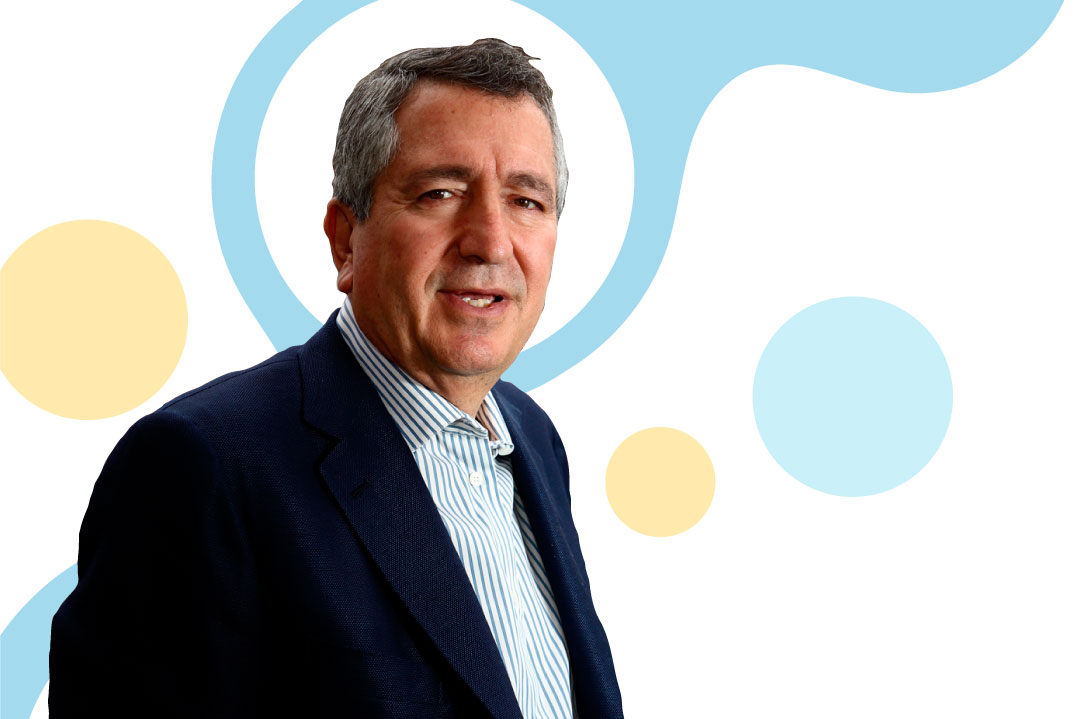
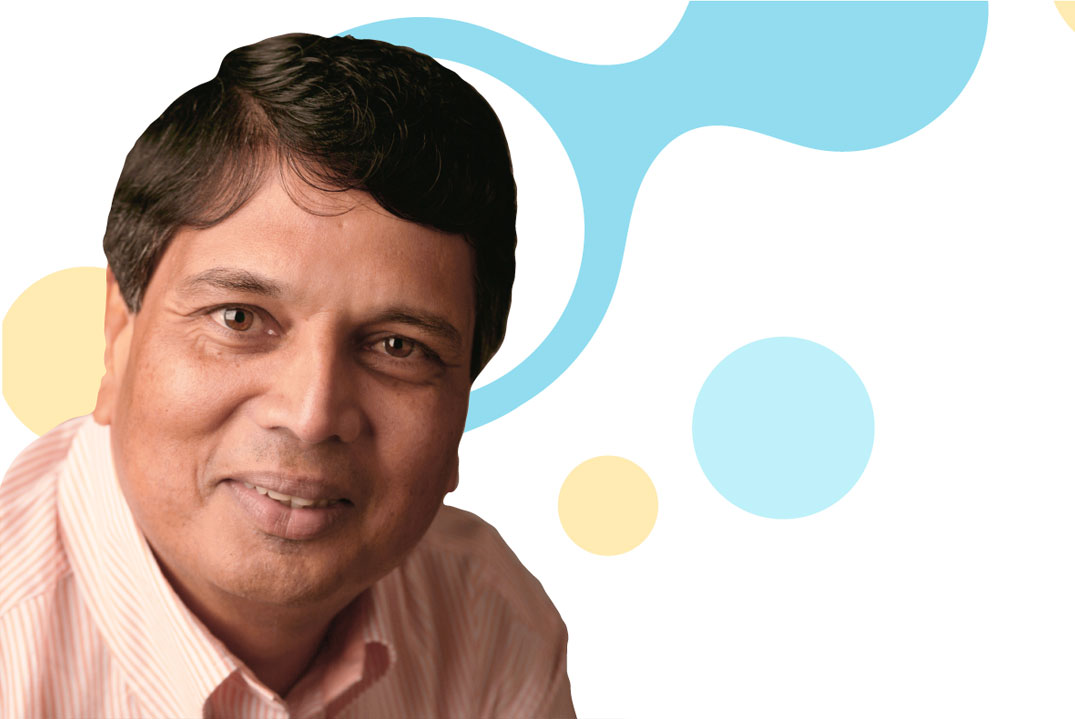
team
perfiles 1

diff --git a/index.html b/index.html
@@ -310,7 +310,7 @@
 									<div class="col-md-4 col-sm-4 wow animated fadeInUp" data-wow-duration="1s" data-wow-delay="0.5s">
 										<div class="overlay-effect effects clearfix">
 											<div class="img">
-											  <img src="assets/img/team/team1.jpg" alt="Portfolio Item">
+											  <img src="assets/img/team/team1.png" alt="Portfolio Item">
 											  <div class="overlay">
 												<button class="md-trigger expand" data-modal="modal-9"><i class="fa fa-search"></i><br>Ver Perfil</button>
 											  </div>
@@ -325,7 +325,7 @@
 									<div class="col-md-4 col-sm-4 wow animated fadeInUp" data-wow-duration="1s" data-wow-delay="0.7s">
 										<div class="overlay-effect effects clearfix">
 											<div class="img">
-												<img src="assets/img/team/team2.jpg" alt="Portfolio Item">
+												<img src="assets/img/team/team2.png" alt="Portfolio Item">
 												<div class="overlay">
 													<button class="md-trigger expand" data-modal="modal-9"><i class="fa fa-search"></i><br>Ver Perfil</button>
 												</div>
@@ -338,7 +338,7 @@
 									<div class="col-md-4 col-sm-4 wow animated fadeInUp" data-wow-duration="1s" data-wow-delay="0.9s">
 										<div class="overlay-effect effects clearfix">
 											<div class="img">
-												<img src="assets/img/team/team3.jpg" alt="Portfolio Item">
+												<img src="assets/img/team/team3.png" alt="Portfolio Item">
 												<div class="overlay">
 													<button class="md-trigger expand" data-modal="modal-9"><i class="fa fa-search"></i><br>Ver Perfil</button>
 												</div>
@@ -363,7 +363,7 @@
 									<div class="col-md-4 col-sm-4 wow animated fadeInUp" data-wow-duration="1s" data-wow-delay="0.5s">
 										<div class="overlay-effect effects clearfix">
 											<div class="img">
-											  <img src="assets/img/team/team1.jpg" alt="Portfolio Item">
+											  <img src="assets/img/team/team4.png" alt="Portfolio Item">
 											  <div class="overlay">
 												<button class="md-trigger expand" data-modal="modal-9"><i class="fa fa-search"></i><br>Ver Perfil</button>
 											  </div>
@@ -376,7 +376,7 @@
 									<div class="col-md-4 col-sm-4 wow animated fadeInUp" data-wow-duration="1s" data-wow-delay="0.7s">
 										<div class="overlay-effect effects clearfix">
 											<div class="img">
-												<img src="assets/img/team/team2.jpg" alt="Portfolio Item">
+												<img src="assets/img/team/ax.png" alt="Portfolio Item">
 												<div class="overlay">
 													<button class="md-trigger expand" data-modal="modal-9"><i class="fa fa-search"></i><br>Ver Perfil</button>
 												</div>
@@ -389,7 +389,7 @@
 									<div class="col-md-4 col-sm-4 wow animated fadeInUp" data-wow-duration="1s" data-wow-delay="0.9s">
 										<div class="overlay-effect effects clearfix">
 											<div class="img">
-												<img src="assets/img/team/team3.jpg" alt="Portfolio Item">
+												<img src="assets/img/team/ax.png" alt="Portfolio Item">
 												<div class="overlay">
 													<button class="md-trigger expand" data-modal="modal-9"><i class="fa fa-search"></i><br>Ver Perfil</button>
 												</div>
